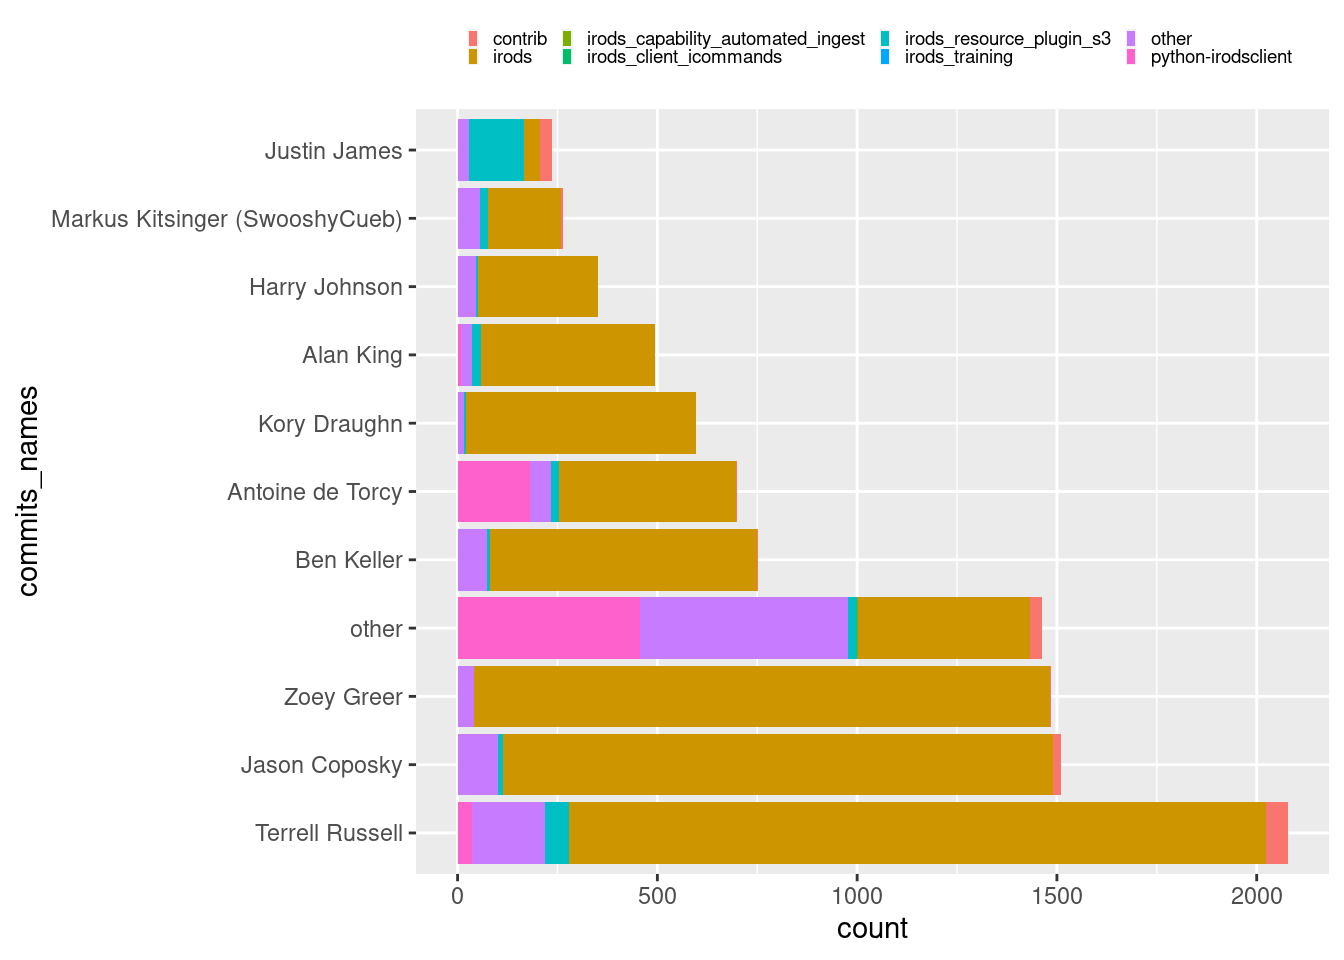
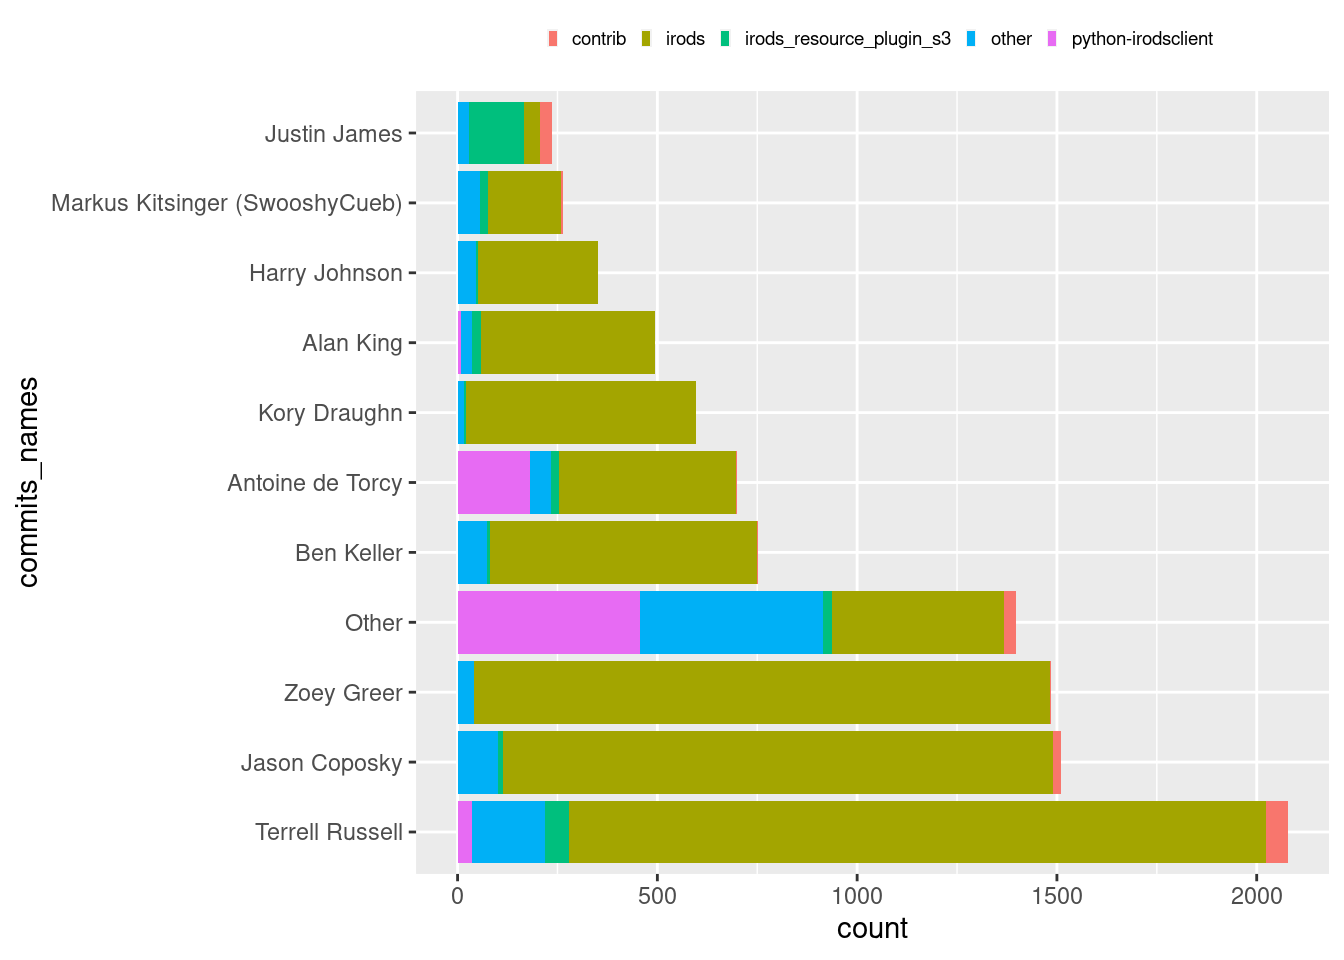
Built site for gh-pages

diff --git a/posts/welcome/index.html b/posts/welcome/index.html
@@ -221,16 +221,15 @@ code span.wa { color: #60a0b0; font-weight: bold; font-style: italic; } /* Warni
 <span id="cb1-6"><a href="#cb1-6" aria-hidden="true" tabindex="-1"></a>commits <span class="ot">&lt;-</span> <span class="fu">read_csv</span>(<span class="st">"https://raw.githubusercontent.com/FAIReLABS/iRODS4R/main/posts/welcome/data/irods_commits.csv"</span>)</span>
 <span id="cb1-7"><a href="#cb1-7" aria-hidden="true" tabindex="-1"></a></span>
 <span id="cb1-8"><a href="#cb1-8" aria-hidden="true" tabindex="-1"></a>commits <span class="ot">&lt;-</span> commits <span class="sc">|&gt;</span> </span>
-<span id="cb1-9"><a href="#cb1-9" aria-hidden="true" tabindex="-1"></a>  <span class="fu">filter</span>(<span class="sc">!</span>fork, <span class="sc">!</span>archived, <span class="sc">!</span>private) <span class="sc">|&gt;</span> </span>
+<span id="cb1-9"><a href="#cb1-9" aria-hidden="true" tabindex="-1"></a>  <span class="fu">filter</span>(<span class="sc">!</span>fork, <span class="sc">!</span>archived, <span class="sc">!</span>private, <span class="sc">!</span><span class="fu">is.na</span>(commits_names)) <span class="sc">|&gt;</span> </span>
 <span id="cb1-10"><a href="#cb1-10" aria-hidden="true" tabindex="-1"></a>  <span class="fu">mutate</span>(</span>
-<span id="cb1-11"><a href="#cb1-11" aria-hidden="true" tabindex="-1"></a>    <span class="at">commits_names =</span> <span class="fu">fct_lump</span>(commits_names, <span class="dv">10</span>, <span class="at">other_level =</span> <span class="st">"other"</span>),</span>
-<span id="cb1-12"><a href="#cb1-12" aria-hidden="true" tabindex="-1"></a>    <span class="at">commits_names =</span> <span class="fu">if_else</span>(<span class="fu">is.na</span>(commits_names), <span class="st">"other"</span>, commits_names),</span>
-<span id="cb1-13"><a href="#cb1-13" aria-hidden="true" tabindex="-1"></a>    <span class="at">commits_names =</span> <span class="fu">fct_infreq</span>(commits_names)</span>
-<span id="cb1-14"><a href="#cb1-14" aria-hidden="true" tabindex="-1"></a>  )</span>
-<span id="cb1-15"><a href="#cb1-15" aria-hidden="true" tabindex="-1"></a></span>
-<span id="cb1-16"><a href="#cb1-16" aria-hidden="true" tabindex="-1"></a><span class="fu">ggplot</span>(commits,<span class="fu">aes</span>(<span class="at">x =</span> commits_names)) <span class="sc">+</span> </span>
-<span id="cb1-17"><a href="#cb1-17" aria-hidden="true" tabindex="-1"></a>    <span class="fu">geom_bar</span>() <span class="sc">+</span> </span>
-<span id="cb1-18"><a href="#cb1-18" aria-hidden="true" tabindex="-1"></a>    <span class="fu">coord_flip</span>()</span></code><button title="Copy to Clipboard" class="code-copy-button"><i class="bi"></i></button></pre></div>
+<span id="cb1-11"><a href="#cb1-11" aria-hidden="true" tabindex="-1"></a>    <span class="at">commits_names =</span> <span class="fu">fct_lump</span>(commits_names, <span class="dv">10</span>),</span>
+<span id="cb1-12"><a href="#cb1-12" aria-hidden="true" tabindex="-1"></a>    <span class="at">commits_names =</span> <span class="fu">fct_infreq</span>(commits_names)</span>
+<span id="cb1-13"><a href="#cb1-13" aria-hidden="true" tabindex="-1"></a>  )</span>
+<span id="cb1-14"><a href="#cb1-14" aria-hidden="true" tabindex="-1"></a></span>
+<span id="cb1-15"><a href="#cb1-15" aria-hidden="true" tabindex="-1"></a><span class="fu">ggplot</span>(commits,<span class="fu">aes</span>(<span class="at">x =</span> commits_names)) <span class="sc">+</span> </span>
+<span id="cb1-16"><a href="#cb1-16" aria-hidden="true" tabindex="-1"></a>    <span class="fu">geom_bar</span>() <span class="sc">+</span> </span>
+<span id="cb1-17"><a href="#cb1-17" aria-hidden="true" tabindex="-1"></a>    <span class="fu">coord_flip</span>()</span></code><button title="Copy to Clipboard" class="code-copy-button"><i class="bi"></i></button></pre></div>
 <div class="cell-output-display">
 <p><img src="index_files/figure-html/unnamed-chunk-1-1.png" class="img-fluid" width="672"></p>
 </div>

diff --git a/index.html b/index.html
@@ -166,7 +166,7 @@ ul.task-list li input[type="checkbox"] {
 
 <div class="quarto-listing quarto-listing-container-default" id="listing-listing">
 <div class="list quarto-listing-default">
-<div class="quarto-post image-right" data-index="0" data-categories="news" data-listing-date-sort="NaN" data-listing-file-modified-sort="1685991931561" data-listing-reading-time-sort="4.1">
+<div class="quarto-post image-right" data-index="0" data-categories="news" data-listing-date-sort="NaN" data-listing-file-modified-sort="1685994023612" data-listing-reading-time-sort="4.05">
 <div class="body">
 <a href="./posts/welcome/index.html">
 <h3 class="no-anchor listing-title">
